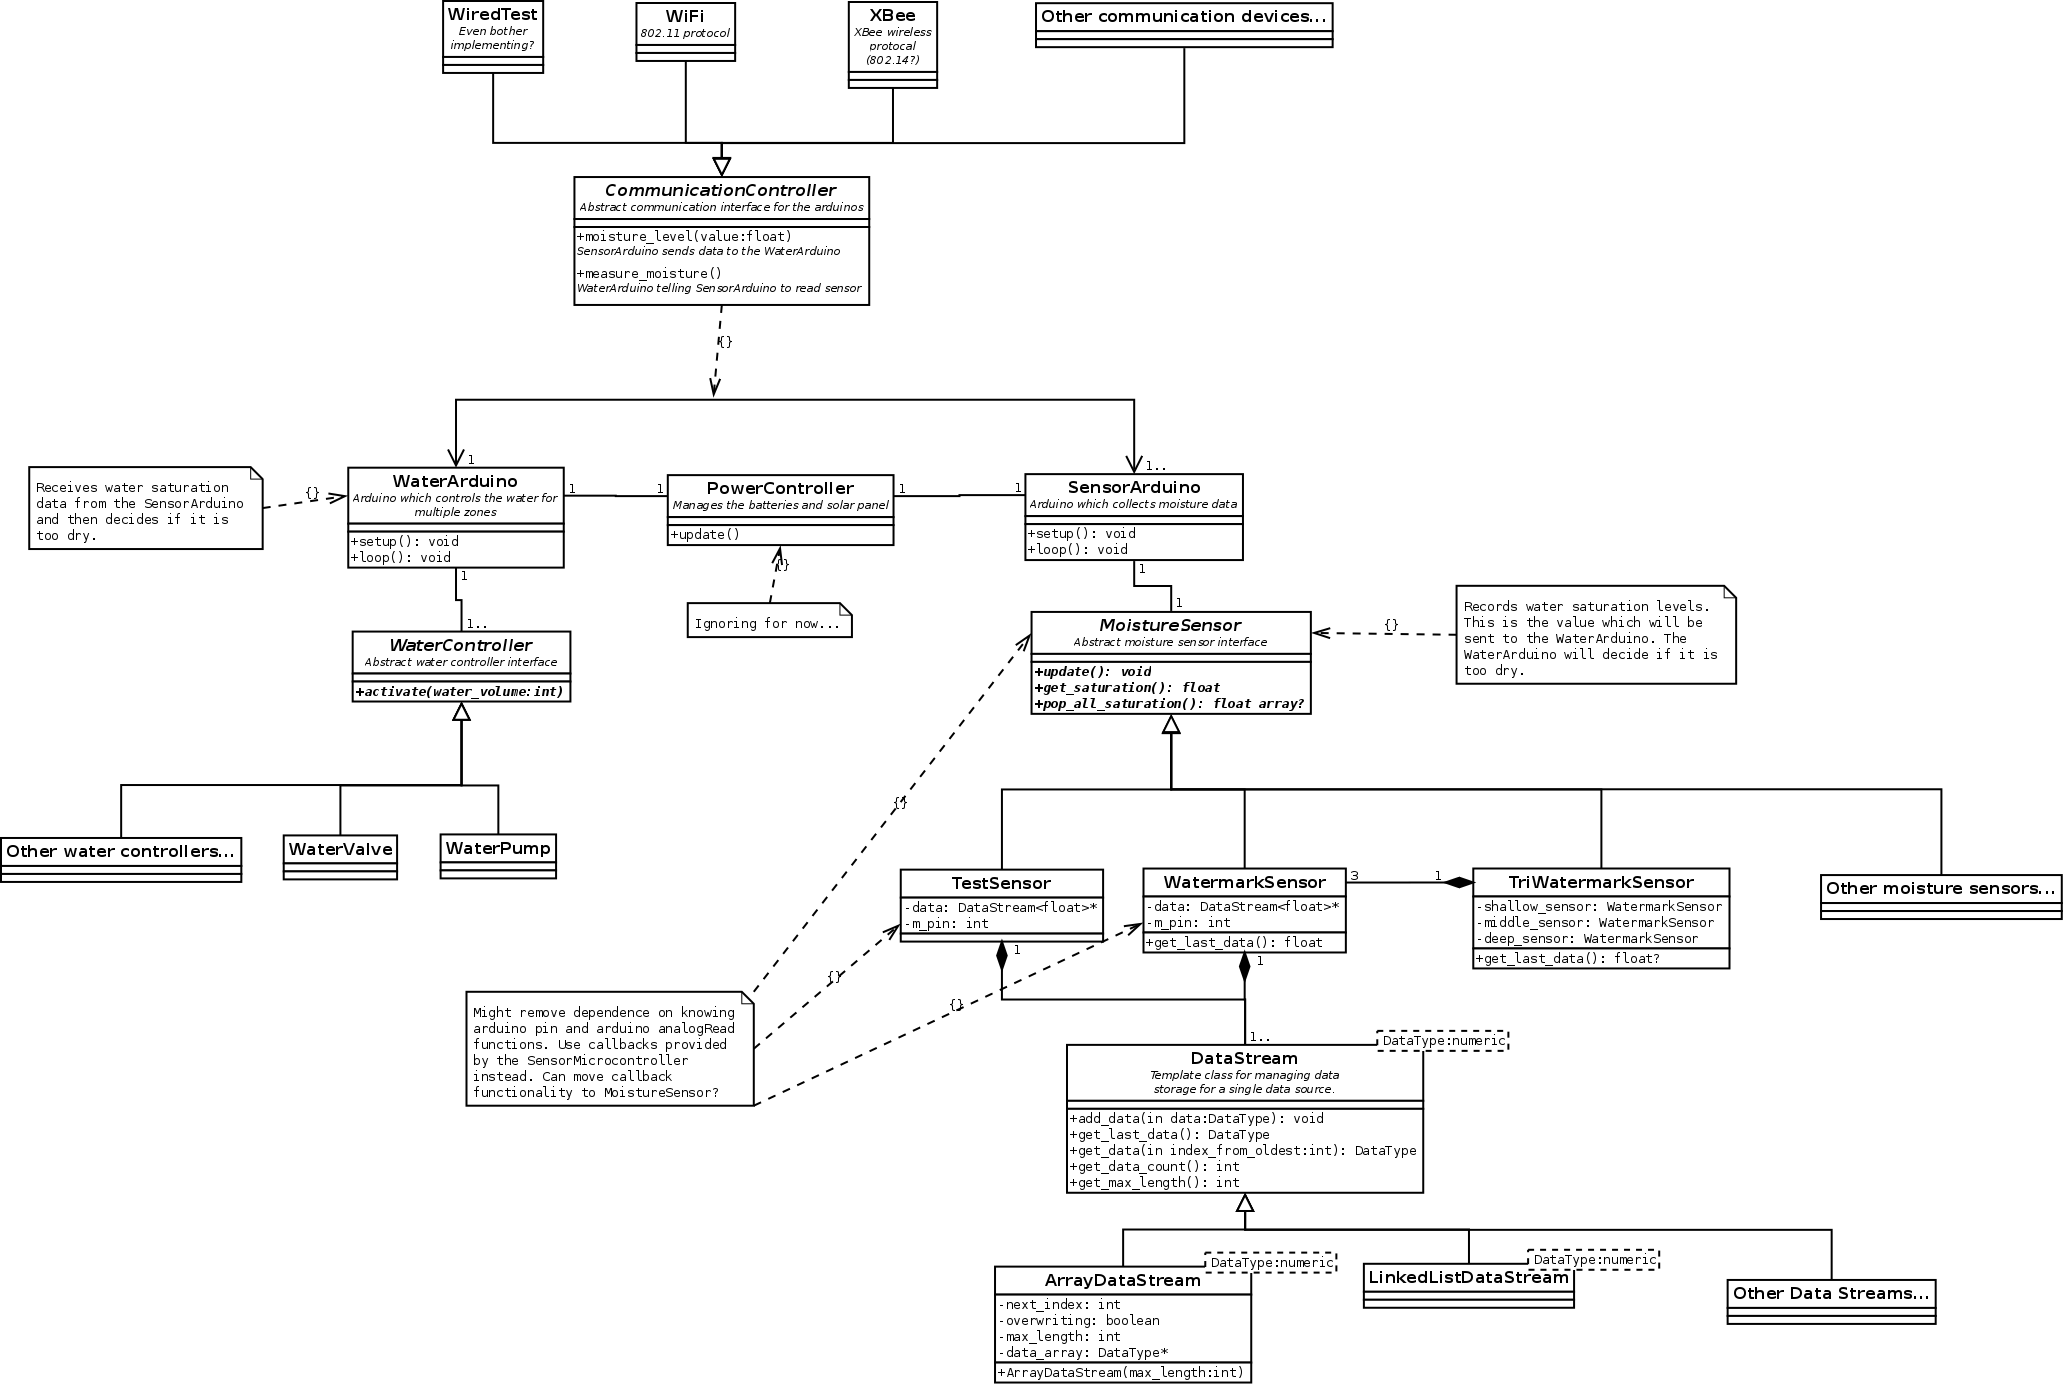
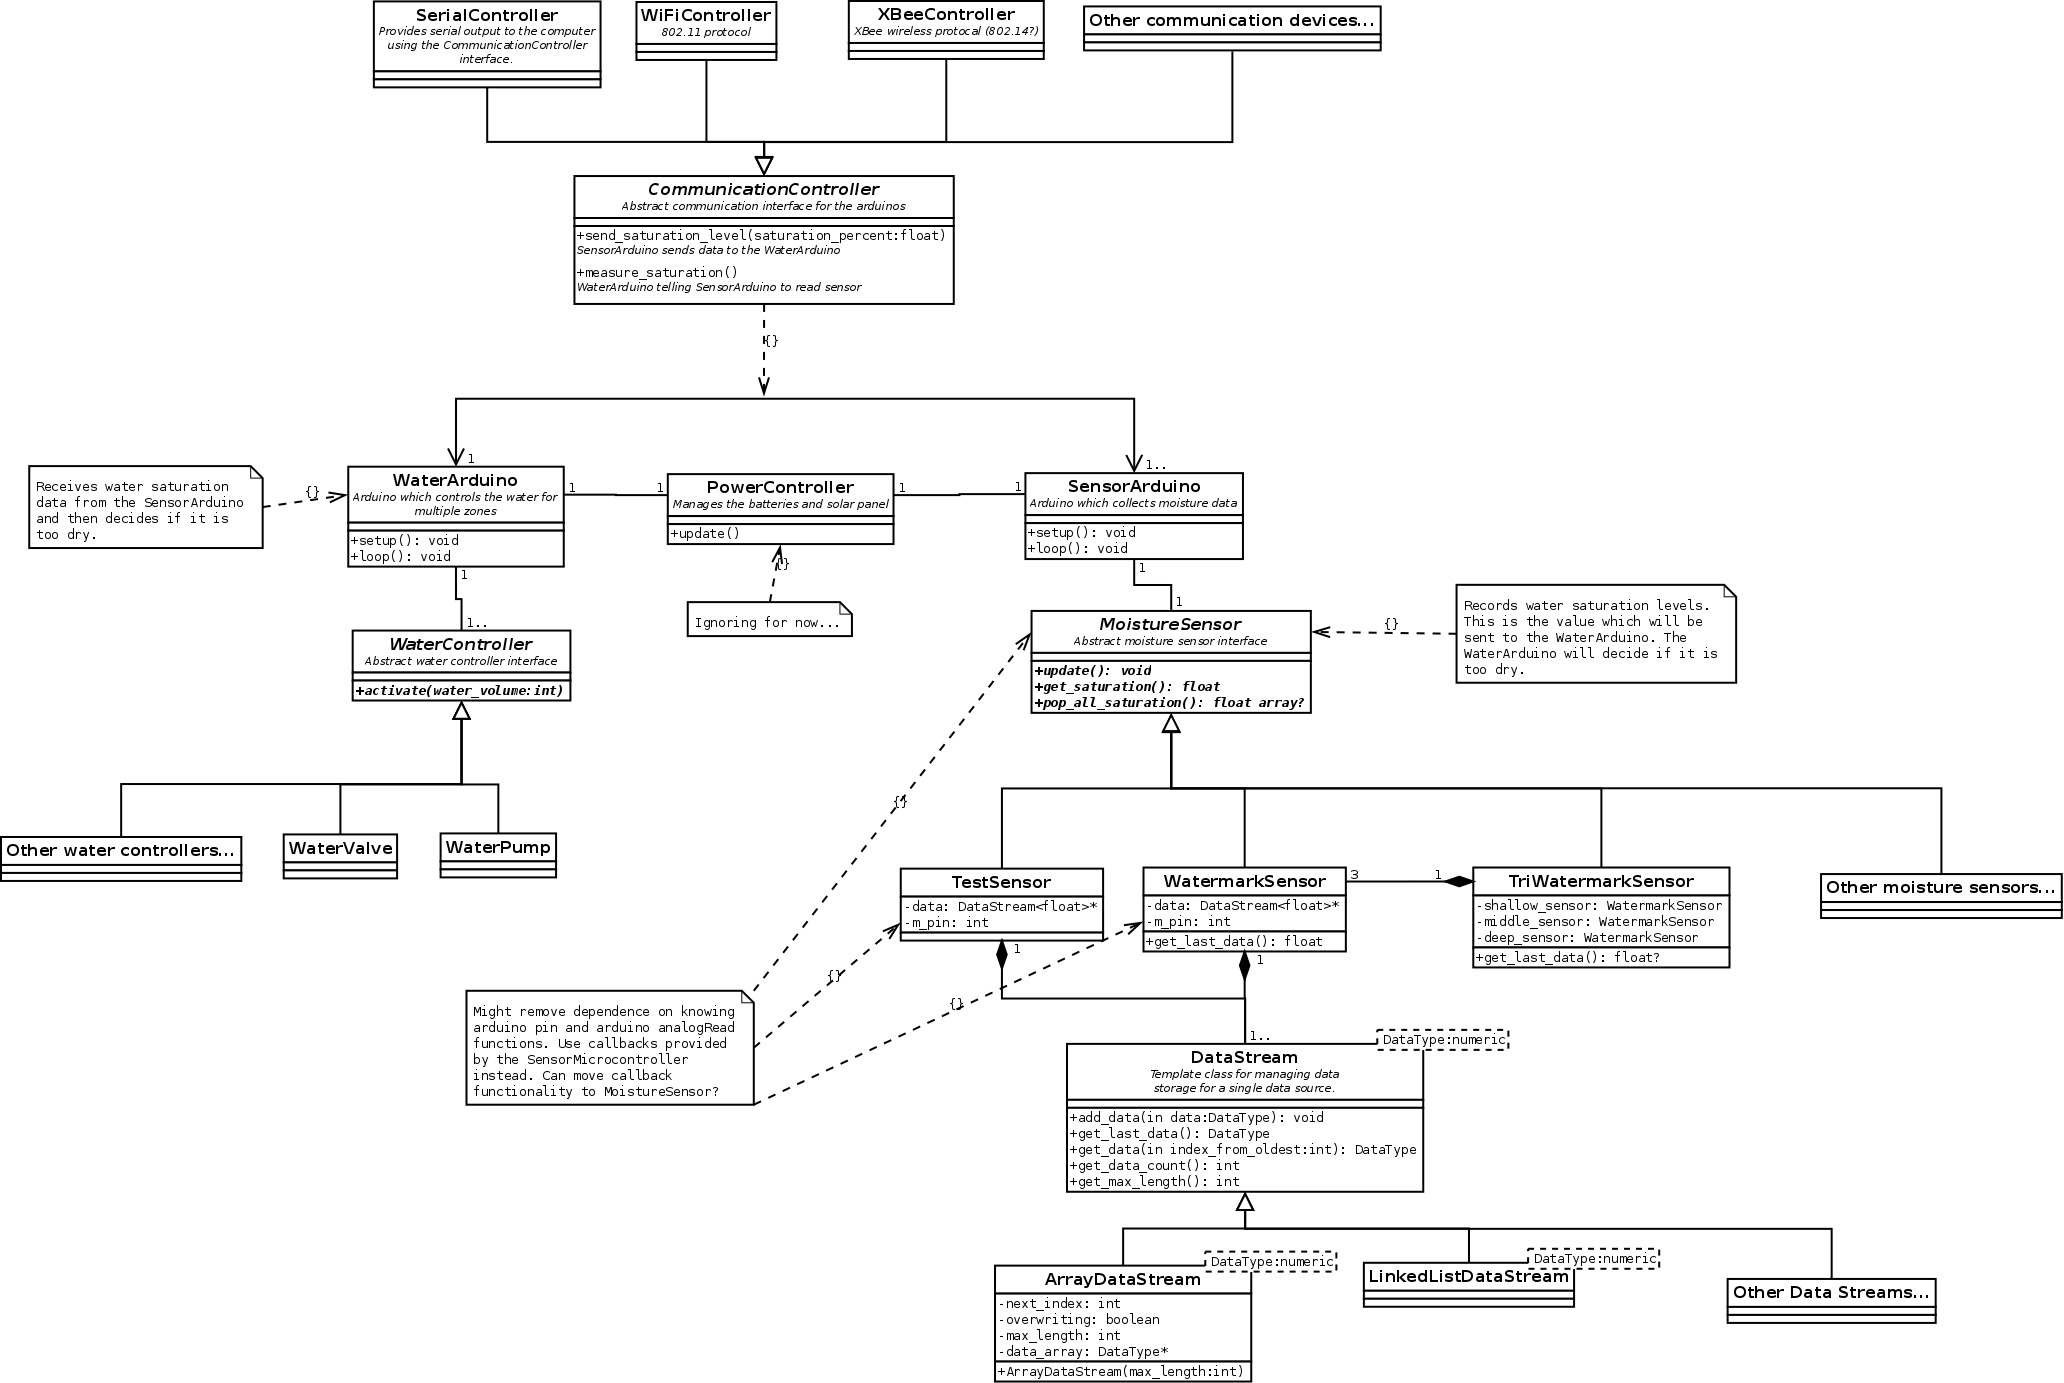
Developed of the communication controller library.
Split the communication_controllers file into multiple ones.

Added a SerialController class which can output information to the
computer using the CommunicationController interface.

Modified the SIP.ino and sensor_arduino.cpp files to use the changes.

diff --git a/code/SIP/sensor_arduino.cpp b/code/SIP/sensor_arduino.cpp
@@ -6,59 +6,42 @@
 #include <generic_moisture_sensor.h>
 //#include <test_sensor.h>
 #include "slht5_adafruit_sensor.h"
+#include "generic_communication_controller.h"
+#include "serial_controller.h"
 
 class SensorArduino {
   public:
     // Arduino variables
-    int SLEEP_TIME; // 1 seconds
-    int MOISTURE_SENSOR_PIN_1;
-    int MOISTURE_SENSOR_PIN_2;
-    int MOISTURE_SENSOR_PIN_3;
+    int m_sleep_time;
 
     // Components
     MoistureSensor* moisture_sensor;
-    // CommunicationController* communication_controller;
+    CommunicationController* communication_controller;
     //... etc.
 
     SensorArduino() {
-      SLEEP_TIME = 1000; // 1 seconds
-      MOISTURE_SENSOR_PIN_1 = 0;
-      MOISTURE_SENSOR_PIN_2 = 1;
-      MOISTURE_SENSOR_PIN_3 = 2;
-      
+      m_sleep_time = 1000; // 1 seconds
+
+			// Pins used by the SLHT5 moisture sensor.
       int data_pin = 10;
       int clock_pin = 11;
       
       // Initialize the components of SIP
-			//moisture_sensor = new TestSensor(MOISTURE_SENSOR_PIN_1);
+      //moisture_sensor = new TestSensor(MOISTURE_SENSOR_PIN_1);
       moisture_sensor = new SLHT5Sensor(data_pin, clock_pin);
-      // communition_controller = new CommunicationController();
+      communication_controller = new SerialController();
       // new solar controller? wifi_controller? etc.
-      
-      Serial.begin(38400);
-      Serial.println("Starting...");
     }
 
     void loop(){
-      // Update the components if necessary.
+			// Update the components.
       moisture_sensor->update();
-      // communication_controller->update();
+      communication_controller->update();
       
-			float saturation_percent = moisture_sensor->get_saturation();
-			// communication_controller->moisture_level(saturation_percent);
+      // Send the new saturation percent over the network.
+      float saturation_percent = moisture_sensor->get_saturation();
+      communication_controller->send_saturation_level(saturation_percent);
 
-			// For testing purposes...
-      if (saturation_percent < 80){
-				// The ground is dry, send a message to water plants
-        Serial.print("Soil is dry. ");
-      } else {
-        Serial.print("Soil is wet. ");
-      }
-
-      Serial.print(" Saturation: ");
-      Serial.print(saturation_percent);
-      Serial.print("%\n");
-
-      delay(SLEEP_TIME);
+      delay(m_sleep_time);
     }
 };

diff --git a/code/libraries/SIPCommunicationControllers/serial_controller.h b/code/libraries/SIPCommunicationControllers/serial_controller.h
@@ -1,0 +1,22 @@
+#ifndef SERIAL_CONTROLLER_H
+#define SERIAL_CONTROLLER_H
+
+#include "generic_communication_controller.h"
+
+/*
+ * The SerialController is a derived class of the 
+ * CommunicationController class. The primary purpose of the 
+ * SerialController is to send data over the serial connection to your 
+ * computer for testing purposes. This tests the communication 
+ * controller architecture and allows any sensors to be tested easily.
+ *
+ */
+
+class SerialController : public CommunicationController {
+  public:
+		SerialController();
+		void update();
+		void send_saturation_level(float saturation_percent);
+};
+
+#endif

diff --git a/code/libraries/SIPCommunicationControllers/serial_controller.cpp b/code/libraries/SIPCommunicationControllers/serial_controller.cpp
@@ -1,0 +1,19 @@
+#include <Arduino.h>
+#include "serial_controller.h"
+
+SerialController::SerialController() : CommunicationController() {
+	// Set up the communication link.
+	Serial.begin(38400);
+	Serial.println("Starting...");
+}
+
+void SerialController::update() {
+	;
+}
+
+void SerialController::send_saturation_level(float saturation_percent) {
+	// Print the saturation percent to the serial port.
+	Serial.print("Saturation: ");
+	Serial.print(saturation_percent);
+	Serial.print("%\n");
+}

diff --git a/code/libraries/SIPCommunicationControllers/generic_communication_controller.h b/code/libraries/SIPCommunicationControllers/generic_communication_controller.h
@@ -7,9 +7,11 @@ class CommunicationController{
   // (be it wired, WiFi, radio, etc.) is hidden.
 
   protected:
-    CommunicationController();
+    CommunicationController() {}
 
   public:
+		virtual void update()=0;
+		virtual void send_saturation_level(float saturation_percent)=0;
     // Interface commands...
     // Should have a way to register callbacks? What happens when a 
     // message is received? How to alert the receiving arduino?

diff --git a/code/libraries/SIPCommunicationControllers/xbee_controller.h b/code/libraries/SIPCommunicationControllers/xbee_controller.h
@@ -1,0 +1,8 @@
+#ifndef XBEE_CONTROLLER_H
+#define XBEE_CONTROLLER_H
+
+class XBee {
+  // Class to interface with the XBee.
+};
+
+#endif
